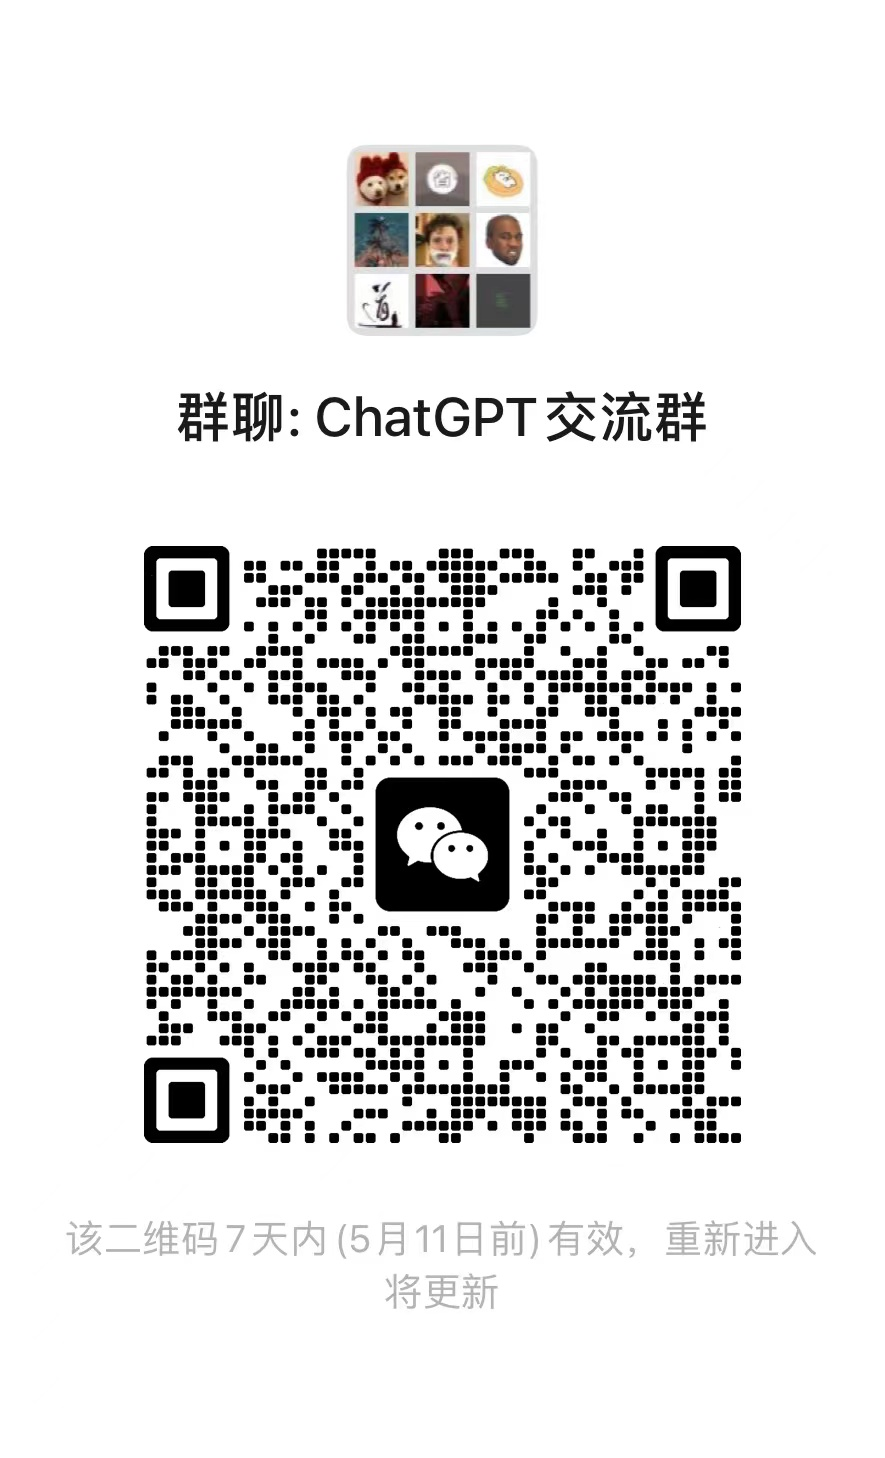
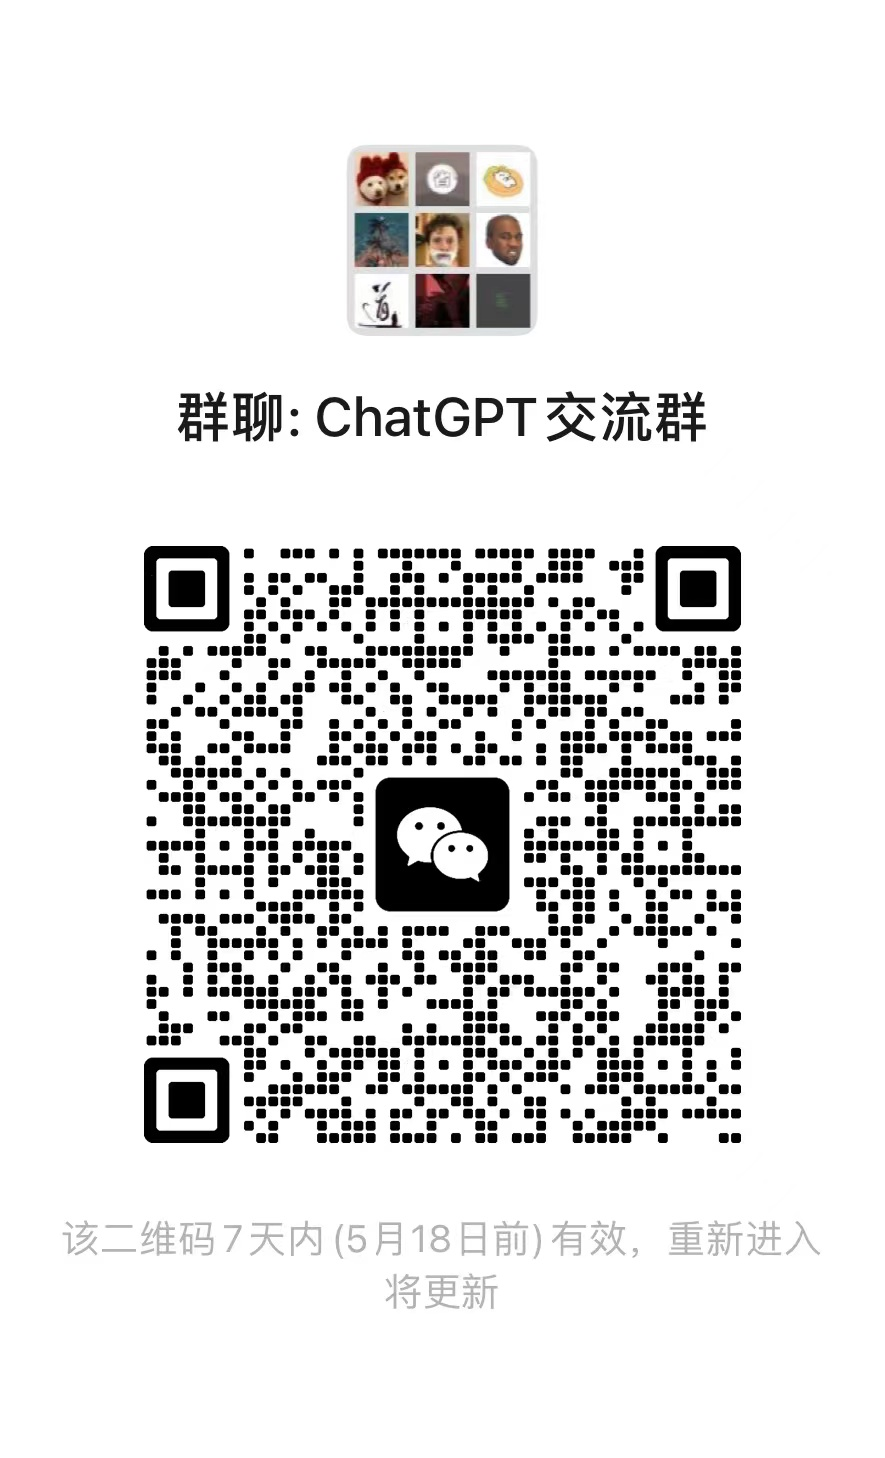
更新群二维码

diff --git a/docs/.vitepress/config.ts b/docs/.vitepress/config.ts
@@ -7,7 +7,8 @@ export default defineConfig({
   description: "定时更新技术博客或新闻",
   cleanUrls: true,
   head: [
-    ['link', { rel: 'icon', href: '/images/icon/avator_ico.ico' }]
+    ['link', { rel: 'icon', href: '/images/icon/avator_ico.ico' }],
+    ['meta', { name: 'referrer', content: 'no-referrer' }]
   ],
   themeConfig: {
     logo: "/images/Avator/avator_circle.png",
